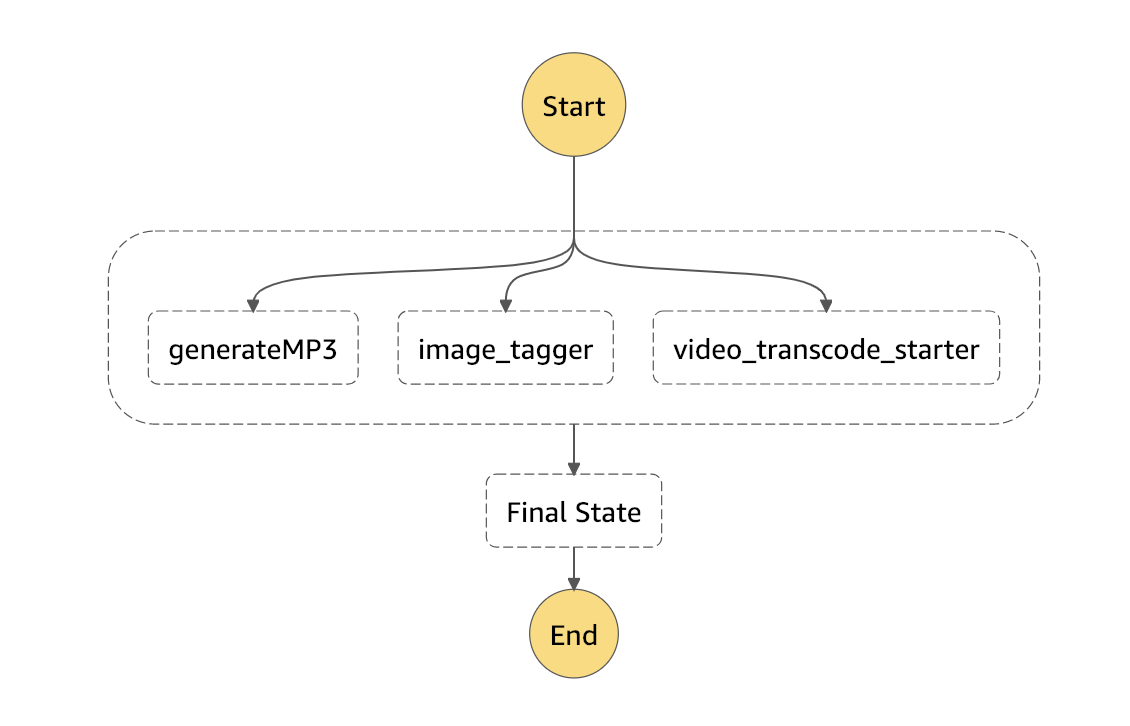
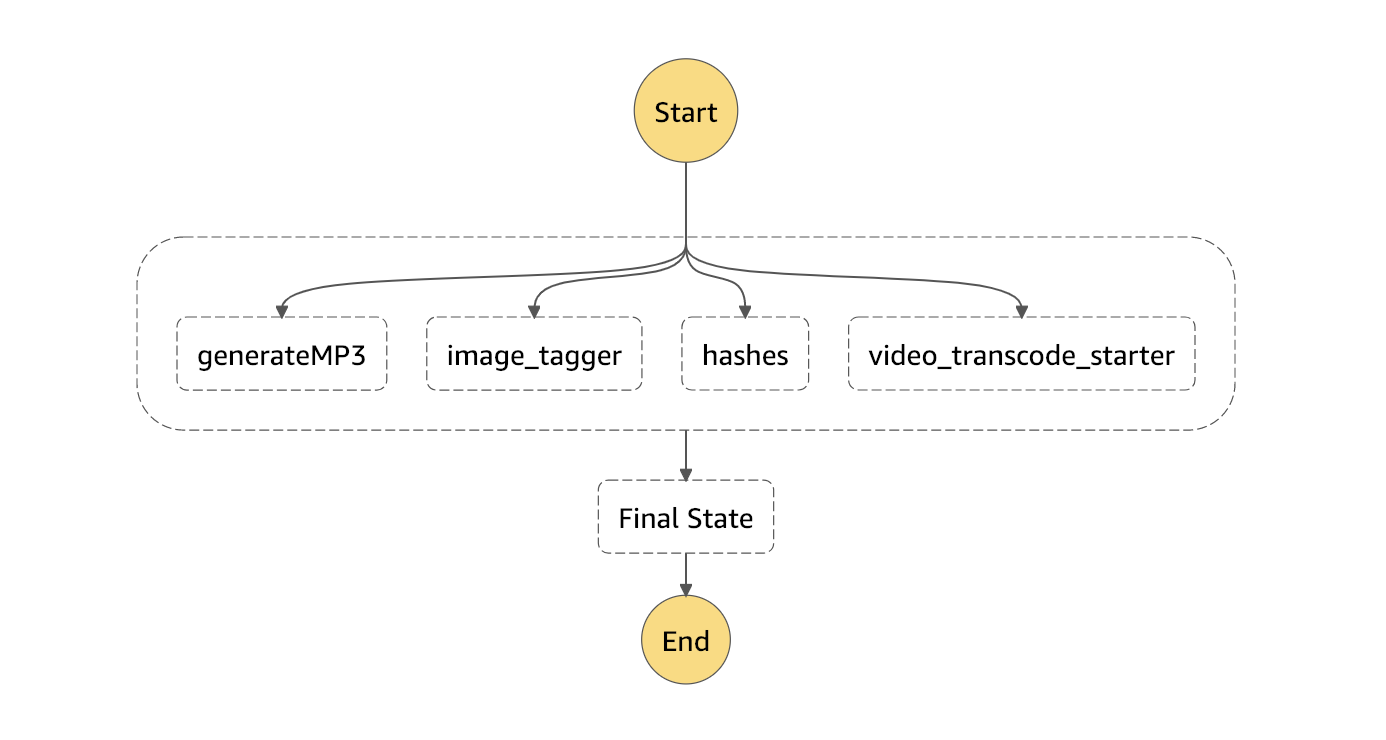
update readme & diagram

diff --git a/README.md b/README.md
@@ -3,9 +3,8 @@ processing scripts for TBA21:
 * Transcode video to different video formats for AWS CloudFront streaming by copying to another s3 bucket to trigger [step function](https://github.com/AcrossTheCloud/video-on-demand-on-aws) for using Elastic Transcoder in a fault tolerant way.
 * Transcode video and audio to Amazon Alexa ready audio files.
 * Use AWS Rekognition to put image tags in AWS DynamoDB.
-* (To do) Store file hashes.
-* (To do) Store image hashes for image files.
+* Store file hashes.
+* Store image hashes for image files.
 
 ## Step diagram
-Thus far:
-![Step function diagram](step_diagram.png) 
+![Step function diagram](step_diagram.png)
